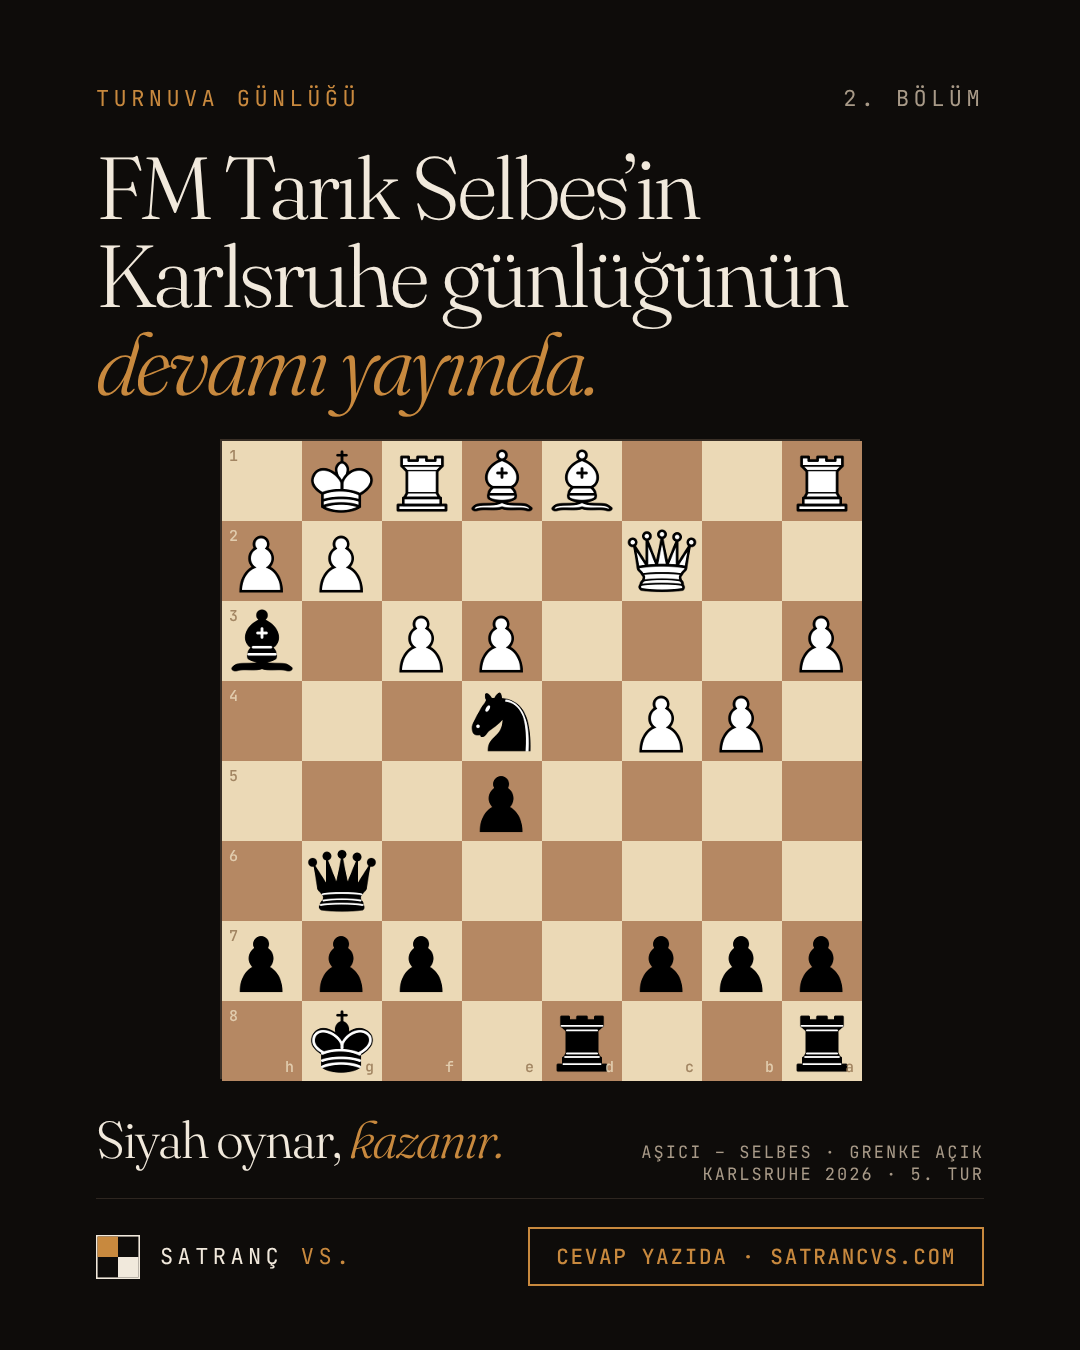
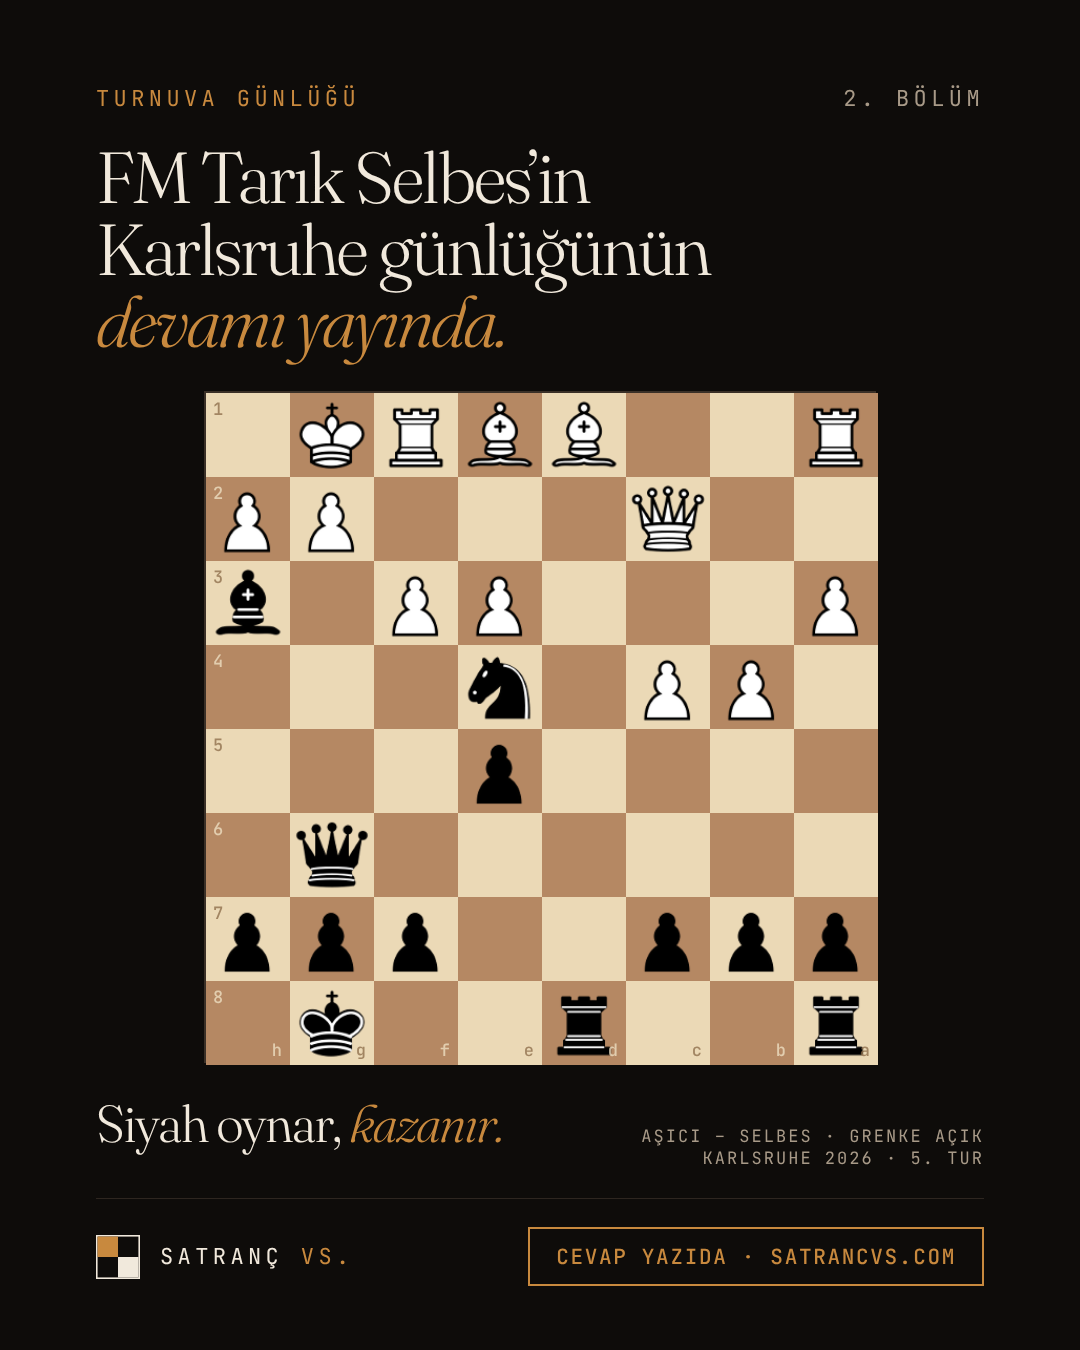
Instagram post: smaller headline (72 px), board 672 px
Claude-Session: https://claude.ai/code/session_01RDmrobBUzHFxXYCf8n2eVA

Changed region(s): [[0.0917, 0.0933, 0.825, 0.8711], [0.5806, 0.84, 0.9167, 0.8711]]

diff --git a/social/instagram/02-karlsruhe-2/slides.html b/social/instagram/02-karlsruhe-2/slides.html
@@ -14,13 +14,13 @@ body { background:#000; }
 .accent { color:var(--accent); }
 .mute { color:var(--mute); }
 .top { display:flex; justify-content:space-between; align-items:center; }
-.disp { font-family:'Fraunces',serif; font-weight:300; letter-spacing:-.04em; line-height:1; font-variation-settings:'opsz' 72; font-size:88px; margin-top:30px; white-space:nowrap; }
+.disp { font-family:'Fraunces',serif; font-weight:300; letter-spacing:-.04em; line-height:1; font-variation-settings:'opsz' 72; font-size:72px; margin-top:28px; white-space:nowrap; }
 .disp em { font-style:italic; color:var(--accent); }
-.board { margin-top:32px; width:640px; height:640px; align-self:center; display:grid; grid-template-columns:repeat(8,80px); grid-template-rows:repeat(8,80px); border:2px solid #3a3027; position:relative; }
-.sq { width:80px; height:80px; position:relative; }
+.board { margin-top:34px; width:672px; height:672px; align-self:center; display:grid; grid-template-columns:repeat(8,84px); grid-template-rows:repeat(8,84px); border:2px solid #3a3027; position:relative; }
+.sq { width:84px; height:84px; position:relative; }
 .sq.l { background:#EBD9B6; } .sq.d { background:#B58863; }
-.sq img { position:absolute; inset:0; width:80px; height:80px; }
-.sq b { position:absolute; font-family:'JetBrains Mono',monospace; font-size:15px; font-weight:500; opacity:.75; }
+.sq img { position:absolute; inset:0; width:84px; height:84px; }
+.sq b { position:absolute; font-family:'JetBrains Mono',monospace; font-size:17px; font-weight:500; opacity:.75; }
 .sq.l b { color:#8a6a47; } .sq.d b { color:#F1E4C8; }
 .sq b.r { left:7px; top:5px; } .sq b.f { right:8px; bottom:4px; }
 .cap { margin-top:32px; display:flex; justify-content:space-between; align-items:baseline; gap:24px; }
